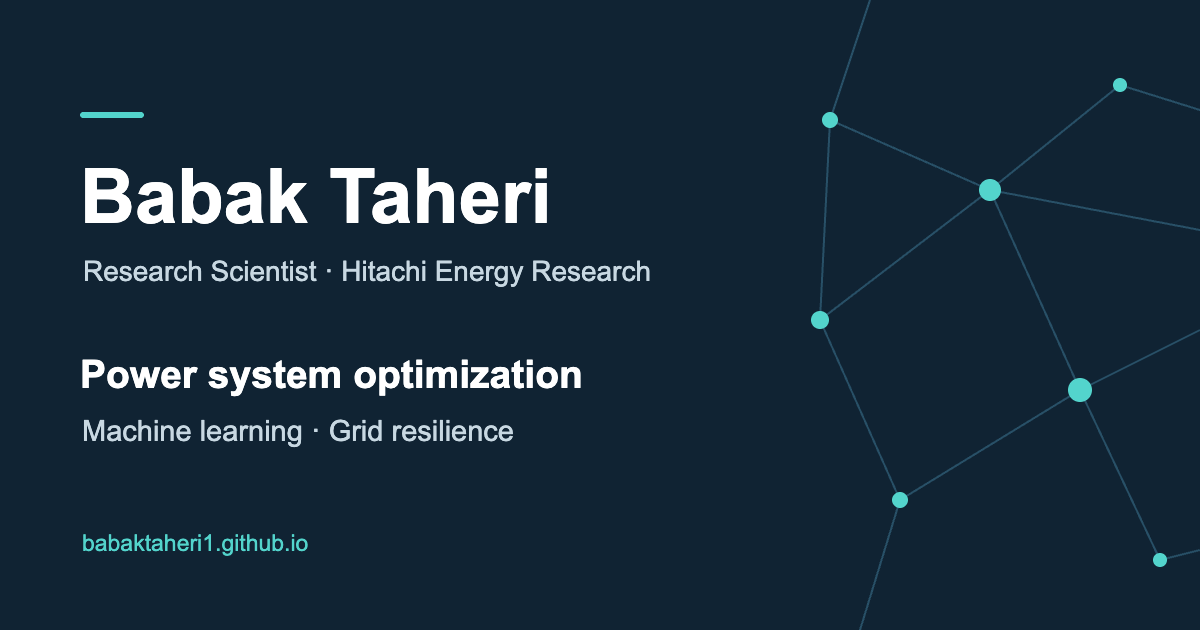
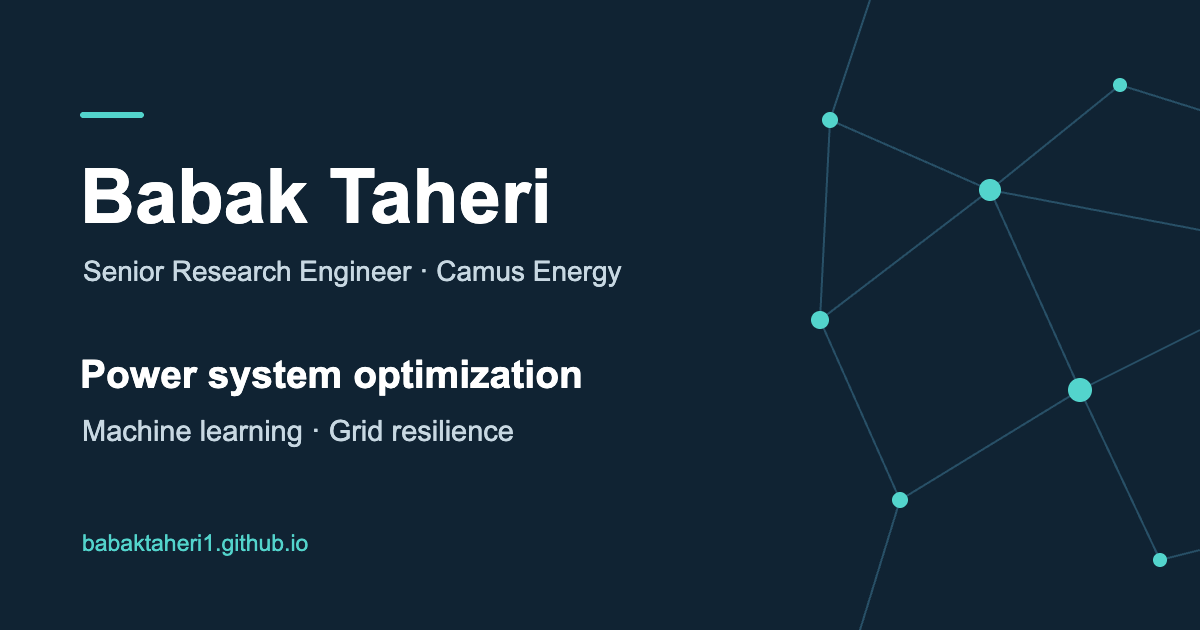
minor update

Changed region(s): [[0.0617, 0.3921, 0.555, 0.4524]]

diff --git a/_pages/about.md b/_pages/about.md
@@ -3,7 +3,7 @@ zoom: true
 layout: about
 title: about
 permalink: /
-subtitle: Research Scientist at <a href="https://www.hitachienergy.com/us/en">Hitachi Energy Research</a>.
+subtitle: Senior Research Engineer at <a href="https://www.camus.energy/">Camus Energy</a>.
 research_intro: I work on optimization and machine learning for reliable, efficient power systems.
 
 profile:
@@ -11,8 +11,7 @@ profile:
   image: prof_pic.jpg
   image_circular: false # crops the image to make it circular
   more_info: >
-    <p>901 Main Campus Dr</p>
-    <p>Raleigh, NC 27606, USA</p>
+    <p>Raleigh, NC, USA</p>
 
 selected_papers: true # includes a list of papers marked as "selected={true}"
 social: true # includes social icons at the bottom of the page
